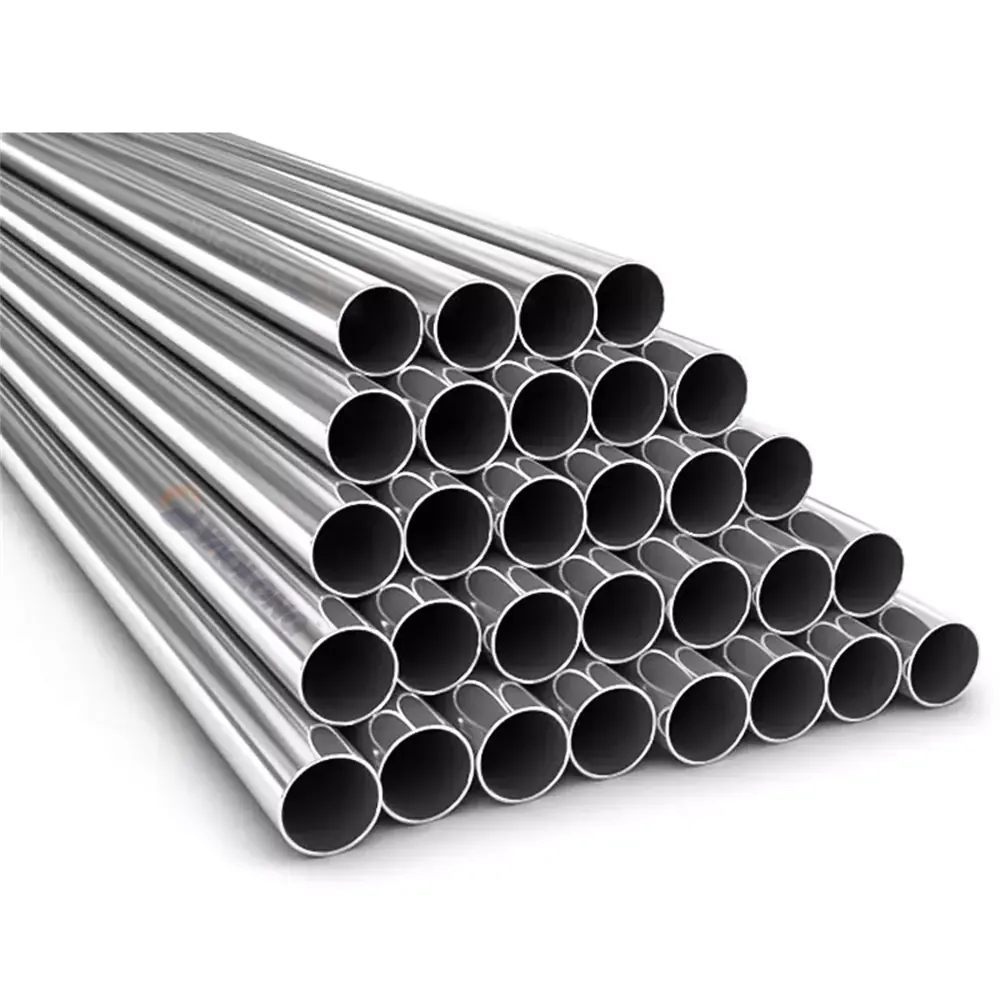
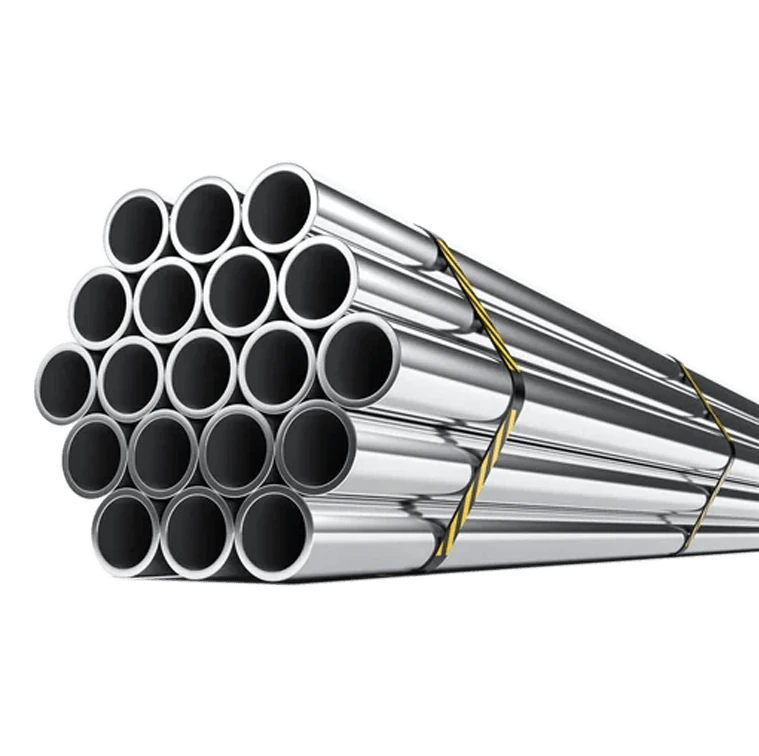
feat: implement product pages and components with comprehensive image assets for pipes, tubes, and fittings.

diff --git a/src/pages/products/ProductDetailPage.tsx b/src/pages/products/ProductDetailPage.tsx
@@ -142,6 +142,22 @@ export const ProductDetailPage: React.FC = () => {
           HERO — Dark background matching DivisionPage style
       ══════════════════════════════════════════════════════════════════════ */}
       <section className="relative bg-prayag-black overflow-hidden" aria-label={`${product.name} Hero`}>
+        {/* Background division image */}
+        <div className="absolute inset-0 z-0" aria-hidden="true">
+          <img
+            src={div === "flanges" ? "/assets/images/products/flanges/hero.webp" : (divisions.find(d => d.id === div)?.image ? `/assets/images/${divisions.find(d => d.id === div)?.image}` : "")}
+            alt=""
+            className="w-full h-full object-cover opacity-20 bg-white"
+            fetchPriority="high"
+            loading="eager"
+            onError={(e) => {
+              (e.target as HTMLImageElement).style.display = "none";
+            }}
+          />
+          <div className="absolute inset-0 bg-gradient-to-r from-prayag-black via-prayag-black/65 to-prayag-black/40" />
+          <div className="absolute inset-0 bg-gradient-to-t from-prayag-black/80 via-transparent to-transparent" />
+        </div>
+
         {/* Red geometric accent rings */}
         <div className="absolute -right-32 top-1/2 -translate-y-1/2 w-[420px] h-[420px] rounded-full border border-prayag-red/15 pointer-events-none z-10" aria-hidden="true" />
         <div className="absolute -right-16 top-1/2 -translate-y-1/2 w-[280px] h-[280px] rounded-full border border-prayag-red/25 pointer-events-none z-10" aria-hidden="true" />

diff --git a/src/components/sections/about/TimelineSection.tsx b/src/components/sections/about/TimelineSection.tsx
@@ -118,9 +118,9 @@ export const TimelineSection: React.FC = () => {
 
   const rocketTop = useTransform(smoothProgress, [0, 0.4, 0.8, 1], ["85%", "55%", "25%", "5%"]);
   const rocketLeft = useTransform(smoothProgress, [0, 0.4, 0.8, 1], ["5%", "35%", "65%", "85%"]);
-  const rocketScale = useTransform(smoothProgress, [0, 0.5, 1], [0.3, 0.8, 1.5]);
+  const rocketScale = useTransform(smoothProgress, [0, 0.5, 1], [0.3, 0.8, 1]);
 
-  const rocketRotateDesktop = useTransform(smoothProgress, [0, 1], [65, 125]);
+  const rocketRotateDesktop = useTransform(smoothProgress, [0, 1], [60, 125]);
   const rocketRotateMobile = useTransform(smoothProgress, [0, 1], [30, 65]); // Mobile-specific rotation
 
   const rocketRotate = isMobile ? rocketRotateMobile : rocketRotateDesktop;
@@ -156,7 +156,7 @@ export const TimelineSection: React.FC = () => {
 
           {/* Rocket Parallax */}
           <motion.div
-            className="absolute w-[180px] md:w-[180px] lg:w-[250px] opacity-90 z-0 pointer-events-none drop-shadow-[0_0_20px_rgba(255,255,255,0.4)]"
+            className="absolute w-[180px] md:w-[180px] lg:w-[250px] opacity-90 z-0 pointer-events-none drop-shadow-[0_0_20px_rgba(255,255,255,0.2)]"
             style={{ top: rocketTop, left: rocketLeft, scale: rocketScale, rotate: rocketRotate }}
           >
             <img

diff --git a/src/data/company.ts b/src/data/company.ts
@@ -8,8 +8,8 @@ export const companyInfo = {
   tagline: "Forging trust, strength, and precision since 1994.",
   founded: 1994,
   website: "www.prayagsteel.in",
-  email: "[email redacted]",
-  phone: "[phone redacted]",
+  email: "[email redacted]",
+  phone: "[phone redacted]",
   registeredOffice: {
     label: "Registered Office",
     address: "67/26, 3rd Kumbharwada",

diff --git a/src/components/ui/ImagePlaceholder.tsx b/src/components/ui/ImagePlaceholder.tsx
@@ -42,7 +42,7 @@ export const ImagePlaceholder: React.FC<ImagePlaceholderProps> = ({
       <img
         src={`/assets/images/${path}`}
         alt={label || "Product image"}
-        className={`${ar} ${className}`}
+        className={`${ar} object-cover ${className}`}
         onError={() => setError(true)}
         loading={priority ? "eager" : "lazy"}
         decoding={priority ? "sync" : "async"}

diff --git a/src/pages/products/DivisionPage.tsx b/src/pages/products/DivisionPage.tsx
@@ -146,7 +146,7 @@ export const DivisionPage: React.FC = () => {
           <img
             src={heroImageSrc}
             alt=""
-            className="w-full h-full object-cover opacity-20"
+            className="w-full h-full object-cover opacity-20 bg-white"
             fetchPriority="high"
             loading="eager"
             onError={(e) => {